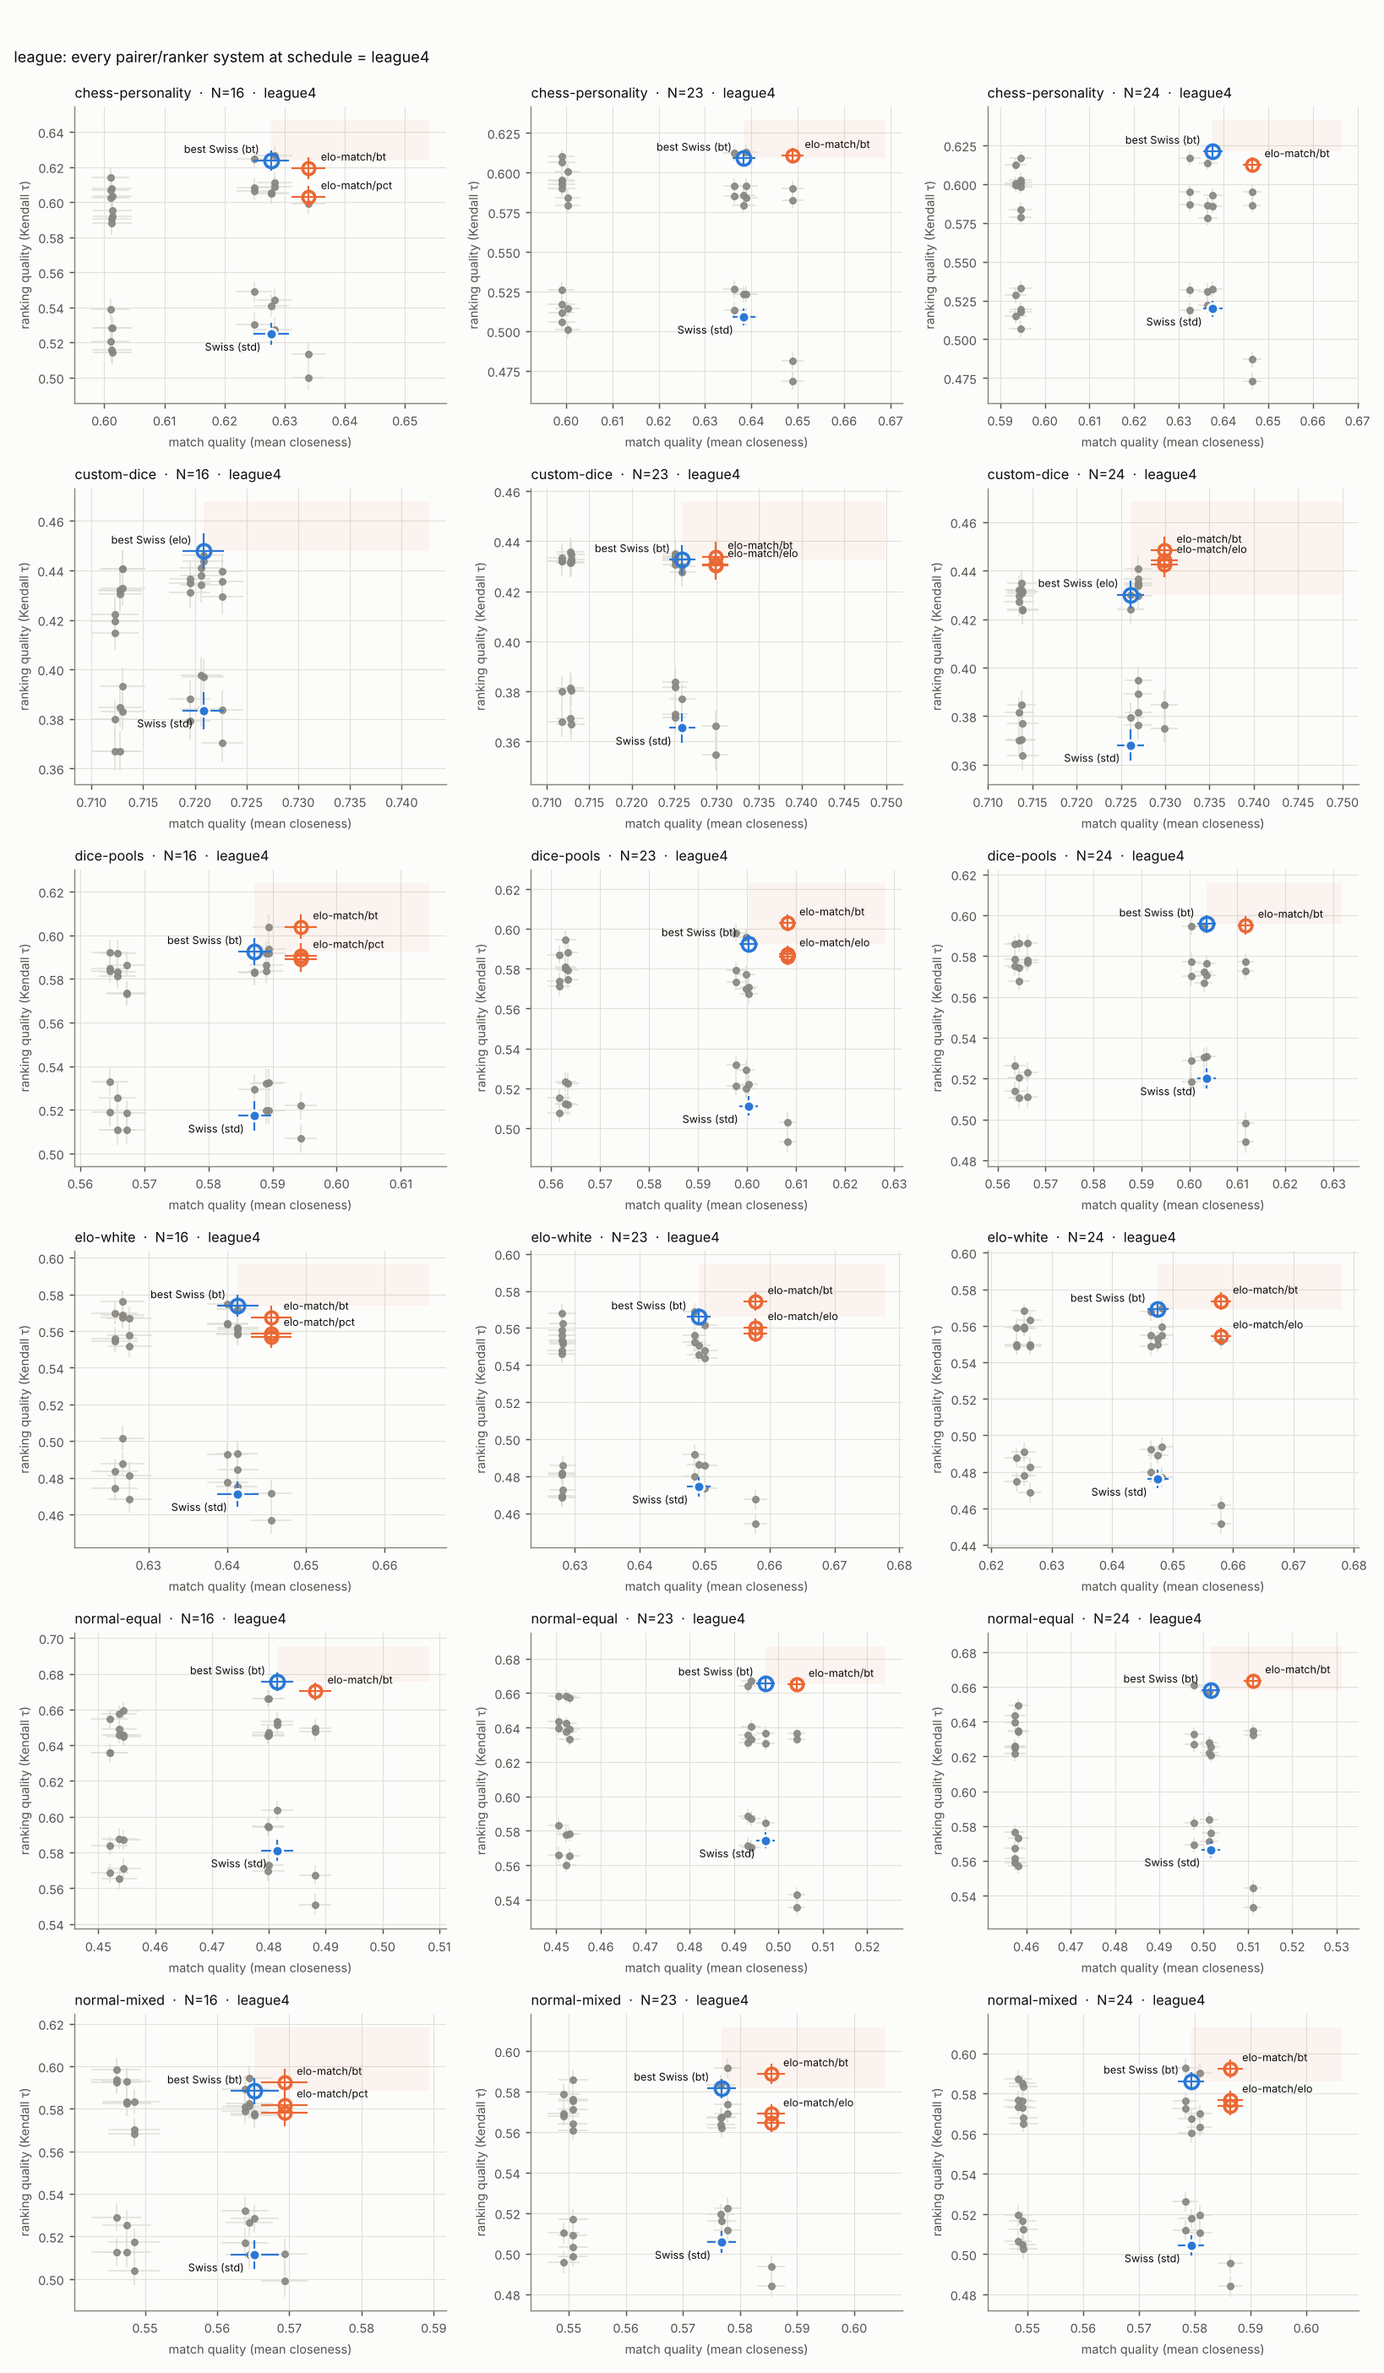
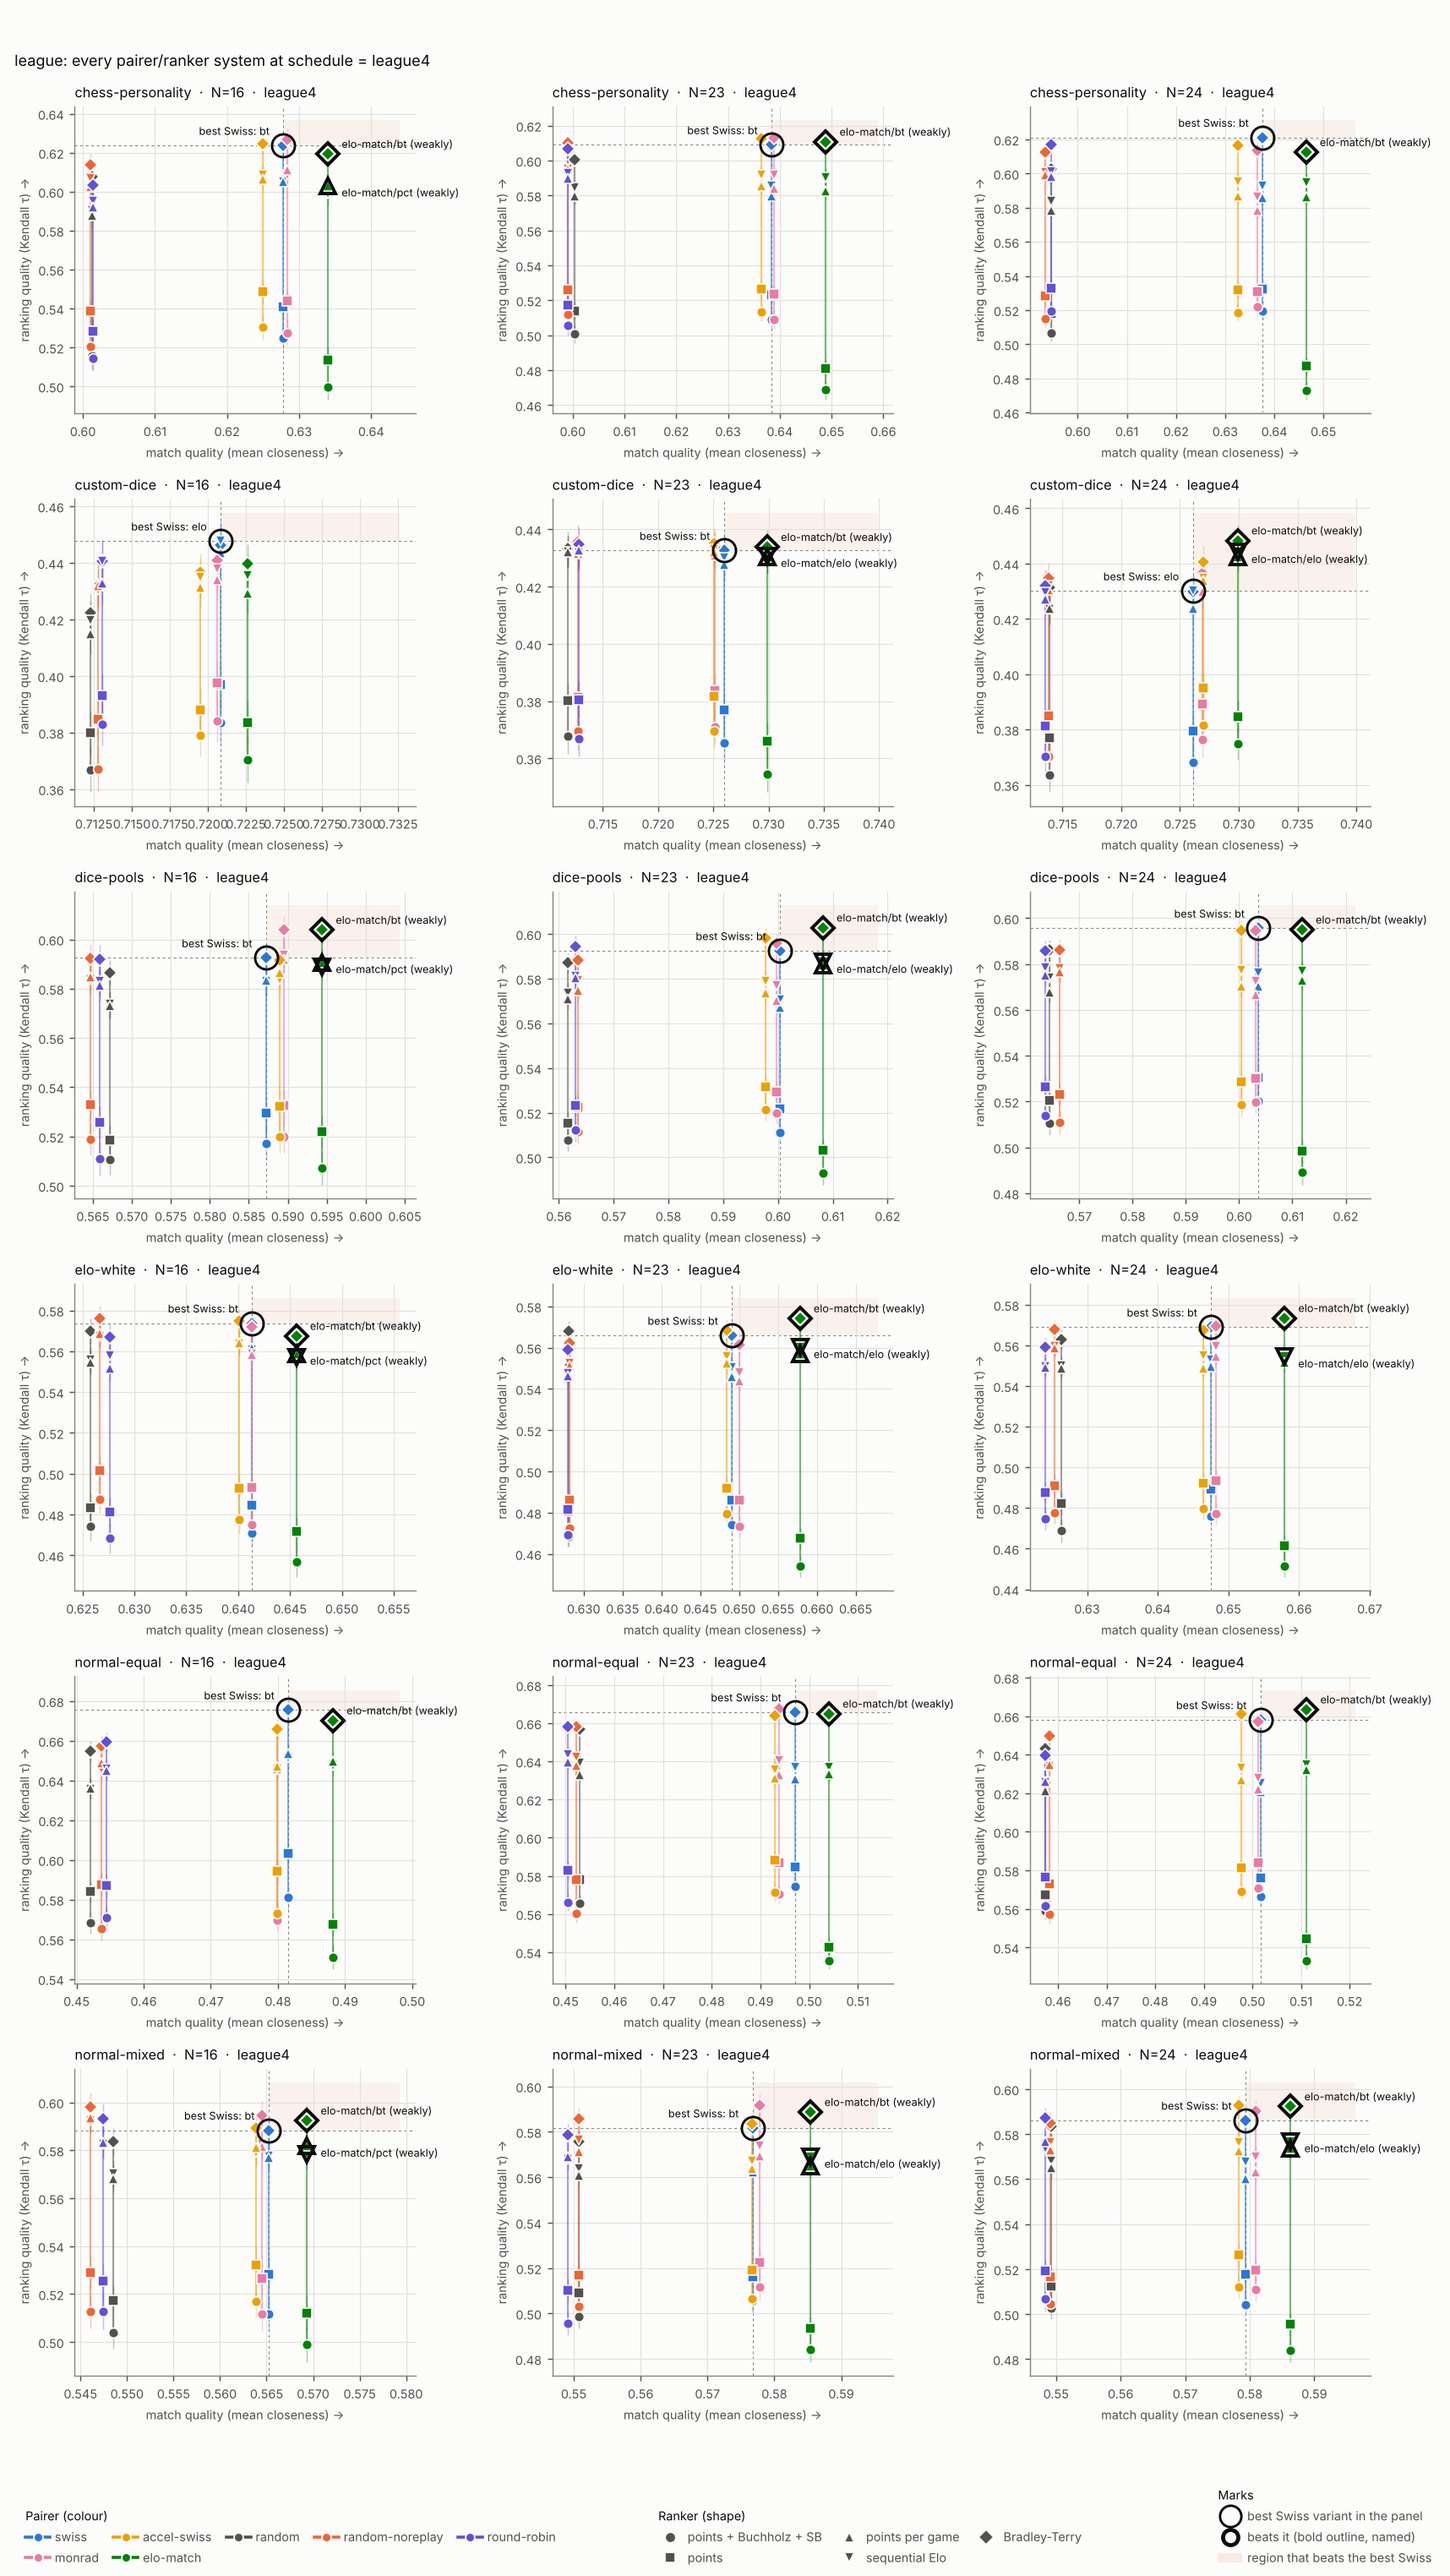
Pareto plots: colour per pairer, shape per ranker, one shared key
Claude-Session: https://claude.ai/code/session_0138wnmbrz96fjoYvPdz1RtQ

Changed region(s): [[0.3425, 0.031, 0.9963, 1.0], [0.0, 0.0, 0.3425, 1.0], [0.2491, 0.8985, 0.2802, 0.9295]]

diff --git a/pairlab/analysis.py b/pairlab/analysis.py
@@ -33,9 +33,28 @@ REF = "swiss/swiss-tb"
 
 # Reference palette (dataviz skill, light mode), fixed per entity.
 SLOTS = ["#2a78d6", "#eb6834", "#1baf7a", "#eda100", "#e87ba4", "#008300", "#6250d6", "#e34948"]
-PAIRER_ORDER = ["swiss", "random", "random-noreplay", "round-robin", "monrad", "accel-swiss",
-                "elo-match"]
-PAIRER_COLOR = {p: SLOTS[i] for i, p in enumerate(PAIRER_ORDER)}
+# Colour follows the pairer everywhere. Nine pairers exceed what colour alone
+# can separate on a scatter, so the Pareto plots add a second encoding (marker
+# shape = ranker, a stem joining each pairer's rankers) and pairs of hues that
+# are hard to tell apart (red/magenta, orange/green) go to pairers that land
+# far apart on the match-quality axis. The random baseline is neutral gray.
+PAIRER_ORDER = ["swiss", "monrad", "accel-swiss", "elo-match", "rank-bt", "rank-pu",
+                "random", "random-noreplay", "round-robin"]
+PAIRER_COLOR = {
+    "swiss": "#2a78d6",            # blue
+    "monrad": "#e87ba4",           # magenta
+    "accel-swiss": "#eda100",      # yellow
+    "elo-match": "#008300",        # green
+    "rank-bt": "#1baf7a",          # aqua
+    "rank-pu": "#e34948",          # red
+    "random": "#52514e",           # neutral: the null baseline
+    "random-noreplay": "#eb6834",  # orange
+    "round-robin": "#6250d6",      # violet
+}
+RANKER_ORDER = ["swiss-tb", "score", "pct", "elo", "bt", "pu"]
+RANKER_MARKER = {"swiss-tb": "o", "score": "s", "pct": "^", "elo": "v", "bt": "D", "pu": "P"}
+RANKER_LABEL = {"swiss-tb": "points + Buchholz + SB", "score": "points", "pct": "points per game",
+                "elo": "sequential Elo", "bt": "Bradley-Terry", "pu": "Pong-Uckele"}
 INK, INK2, MUTED, GRID, SURFACE = "#0b0b0b", "#52514e", "#898781", "#e1e0d9", "#fcfcfb"
 
 
@@ -134,72 +153,101 @@ def _style(ax):
         ax.spines[s].set_color(MUTED)
     ax.tick_params(colors=INK2, labelsize=8)
     ax.grid(True, color=GRID, linewidth=0.6)
+    from matplotlib.ticker import MaxNLocator
+    ax.xaxis.set_major_locator(MaxNLocator(5))
     ax.set_axisbelow(True)
 
 
-def plot_pareto(summary, verdicts, cells, path, title=None, ncols=3):
-    """Small multiples: match quality (x) vs ranking quality (y).
+def _pareto_key(fig, pairers, rankers):
+    """One key for the whole figure: pairer colours, ranker shapes, and the
+    reference marks."""
+    from matplotlib.lines import Line2D
+    from matplotlib.patches import Patch
+    ph = [Line2D([0], [0], color=PAIRER_COLOR[p], lw=2, marker="o", ms=6, mec=SURFACE, label=p)
+          for p in pairers]
+    rh = [Line2D([0], [0], color="none", marker=RANKER_MARKER[r], ms=7, mfc=INK2, mec=SURFACE,
+                 label=RANKER_LABEL[r]) for r in rankers]
+    mh = [Line2D([0], [0], color="none", marker="o", ms=14, mfc="none", mec=INK, mew=1.6,
+                 label="best Swiss variant in the panel"),
+          Line2D([0], [0], color="none", marker="o", ms=10, mfc="none", mec=INK, mew=2.6,
+                 ls="none", label="beats it (bold outline, named)"),
+          Patch(facecolor=SLOTS[1], alpha=0.12, label="region that beats the best Swiss")]
+    kw = dict(frameon=False, fontsize=8, labelcolor=INK2, handletextpad=0.4, columnspacing=1.2,
+              title_fontsize=8, alignment="left")
+    l1 = fig.legend(handles=ph, title="Pairer (colour)", loc="lower left", ncol=5,
+                    bbox_to_anchor=(0.01, 0.0), **kw)
+    l2 = fig.legend(handles=rh, title="Ranker (shape)", loc="lower center", ncol=3,
+                    bbox_to_anchor=(0.6, 0.0), **kw)
+    l3 = fig.legend(handles=mh, title="Marks", loc="lower right", ncol=1,
+                    bbox_to_anchor=(0.995, 0.0), **kw)
+    for lg in (l1, l2, l3):
+        lg.get_title().set_color(INK)
 
-    `verdicts` are paired tests against swiss/best. Gray = every system; blue
-    dot = standard Swiss (swiss/swiss-tb); blue ring = the best Swiss variant in
-    the cell, whose up-right quadrant is shaded; orange dot = dominates the best
-    Swiss; orange ring = weakly dominates it (better on one axis, tied on the
-    other)."""
+
+def plot_pareto(summary, verdicts, cells, path, title=None, ncols=3):
+    """Small multiples: match quality (x) vs ranking quality (y), one point per
+    system. Colour = pairer, marker shape = ranker; a stem in the pairer's
+    colour joins its rankers (they share the pairer's games, so the same x).
+    `verdicts` are paired tests against swiss/best: its point gets a ring and
+    its up-right quadrant is shaded; systems that dominate or weakly dominate
+    it get a bold outline and a label. A single key sits under the panels."""
     cells = list(cells)
     nrows = int(np.ceil(len(cells) / ncols))
-    fig, axes = plt.subplots(nrows, ncols, figsize=(4.2 * ncols, 3.6 * nrows), squeeze=False,
-                             facecolor=SURFACE)
+    key_h = 1.25
+    fig, axes = plt.subplots(nrows, ncols, figsize=(4.4 * ncols, 3.7 * nrows + key_h),
+                             squeeze=False, facecolor=SURFACE)
     for ax in axes.flat[len(cells):]:
         ax.set_visible(False)
+    pairers_seen, rankers_seen = set(), set()
     for ax, cell in zip(axes.flat, cells):
         _style(ax)
-        sel = np.all([summary[c] == v for c, v in zip(CELL, cell)], axis=0)
-        s = summary[sel]
+        s = summary[np.all([summary[c] == v for c, v in zip(CELL, cell)], axis=0)]
         v = verdicts[np.all([verdicts[c] == x for c, x in zip(CELL, cell)], axis=0)]
         best_name = v.reference.iloc[0] if len(v) else REF
-        dom = set(v[v.verdict == "dominates"].system)
-        weak = set(v[v.verdict == "weakly dominates"].system)
-        std = s[s.system == REF]
+        winners = v[v.verdict.isin(["dominates", "weakly dominates"])]
         best = s[s.system == best_name]
         if not best.empty:
             bx, by = best.mq.iloc[0], best.tau.iloc[0]
-            ax.fill_between([bx, max(s.mq.max(), bx) + 0.02], by, max(s.tau.max(), by) + 0.02,
-                            color=SLOTS[1], alpha=0.06, linewidth=0)
-        special = {REF, best_name} | dom | weak
-        other = s[~s.system.isin(special)]
-        ax.errorbar(other.mq, other.tau, xerr=other.mq_se, yerr=other.tau_se, fmt="o", ms=4,
-                    color=MUTED, ecolor=GRID, elinewidth=1, alpha=0.9)
-        if not std.empty:
-            ax.errorbar(std.mq, std.tau, xerr=std.mq_se, yerr=std.tau_se, fmt="o", ms=7,
-                        color=SLOTS[0], mec=SURFACE, mew=1.5, elinewidth=1.2, zorder=4)
-            ax.annotate("Swiss (std)", (std.mq.iloc[0], std.tau.iloc[0]),
-                        textcoords="offset points", xytext=(-7, -11), fontsize=7, color=INK,
+            ax.fill_between([bx, max(s.mq.max(), bx) + 0.01], by, max(s.tau.max(), by) + 0.01,
+                            color=SLOTS[1], alpha=0.07, linewidth=0, zorder=0)
+            ax.axvline(bx, color=MUTED, lw=0.6, ls=(0, (3, 3)), zorder=0)
+            ax.axhline(by, color=MUTED, lw=0.6, ls=(0, (3, 3)), zorder=0)
+        for p in [q for q in PAIRER_ORDER if q in set(s.pairer)]:
+            d = s[s.pairer == p]
+            pairers_seen.add(p)
+            col = PAIRER_COLOR[p]
+            ax.plot([d.mq.mean()] * 2, [d.tau.min(), d.tau.max()], color=col, lw=1.2, alpha=0.55,
+                    zorder=1, solid_capstyle="round")
+            for _, r in d.iterrows():
+                rankers_seen.add(r.ranker)
+                ax.errorbar(r.mq, r.tau, yerr=r.tau_se, fmt="none", ecolor=col, alpha=0.35,
+                            elinewidth=0.8, zorder=1)
+                ax.plot(r.mq, r.tau, marker=RANKER_MARKER.get(r.ranker, "o"), ms=6.5, color=col,
+                        mec=SURFACE, mew=0.9, ls="none", zorder=3)
+        if not best.empty:
+            ax.plot(bx, by, marker="o", ms=15, mfc="none", mec=INK, mew=1.6, zorder=4)
+            ax.annotate(f"best Swiss: {best_name.split('/')[1]}", (bx, by),
+                        textcoords="offset points", xytext=(-9, 7), fontsize=7, color=INK,
                         ha="right")
-        if not best.empty and best_name != REF:
-            ax.errorbar(best.mq, best.tau, xerr=best.mq_se, yerr=best.tau_se, fmt="o", ms=9,
-                        mfc="none", mec=SLOTS[0], mew=2, ecolor=SLOTS[0], elinewidth=1.2,
-                        zorder=4)
-            ax.annotate(f"best Swiss ({best_name.split('/')[1]})", (bx, by),
-                        textcoords="offset points", xytext=(-8, 5), fontsize=7, color=INK,
-                        ha="right")
-        for group, filled in [(weak, False), (dom, True)]:
-            d = s[s.system.isin(group)]
-            if d.empty:
-                continue
-            ax.errorbar(d.mq, d.tau, xerr=d.mq_se, yerr=d.tau_se, fmt="o", ms=8,
-                        mfc=SLOTS[1] if filled else "none", mec=SLOTS[1], mew=2,
-                        ecolor=SLOTS[1], elinewidth=1.2, zorder=5)
-            for _, r in d.sort_values("tau", ascending=False).head(2).iterrows():
-                ax.annotate(r.system, (r.mq, r.tau), textcoords="offset points", xytext=(8, 5),
-                            fontsize=7, color=INK)
+        for k, (_, r) in enumerate(winners.sort_values("d_tau", ascending=False).iterrows()):
+            row = s[s.system == r.system].iloc[0]
+            ax.plot(row.mq, row.tau, marker=RANKER_MARKER.get(row.ranker, "o"), ms=10,
+                    mfc="none", mec=INK, mew=2.2, zorder=5)
+            if k < 2:
+                tag = "" if r.verdict == "dominates" else " (weakly)"
+                ax.annotate(r.system + tag, (row.mq, row.tau), textcoords="offset points",
+                            xytext=(9, 4 - 11 * k), fontsize=7, color=INK)
         tbl, n, sch, seed, bp = cell
-        extra = f"  ·  {seed}" if seed != "random" else ""
+        extra = f"  ·  seeds {seed}" if seed != "random" else ""
         ax.set_title(f"{tbl}  ·  N={n}  ·  {sch}{extra}", fontsize=9, color=INK, loc="left")
-        ax.set_xlabel("match quality (mean closeness)", fontsize=8, color=INK2)
-        ax.set_ylabel("ranking quality (Kendall τ)", fontsize=8, color=INK2)
+        ax.set_xlabel("match quality (mean closeness) →", fontsize=8, color=INK2)
+        ax.set_ylabel("ranking quality (Kendall τ) →", fontsize=8, color=INK2)
     if title:
         fig.suptitle(title, fontsize=10, color=INK, x=0.01, ha="left")
-    fig.tight_layout(rect=(0, 0, 1, 1 - 0.3 / (3.6 * nrows) if title else 1))
+    _pareto_key(fig, [p for p in PAIRER_ORDER if p in pairers_seen],
+                [r for r in RANKER_ORDER if r in rankers_seen])
+    H = fig.get_figheight()
+    fig.tight_layout(rect=(0, key_h / H, 1, 1 - (0.3 / H if title else 0)))
     fig.savefig(path, dpi=130, facecolor=SURFACE)
     plt.close(fig)
 
